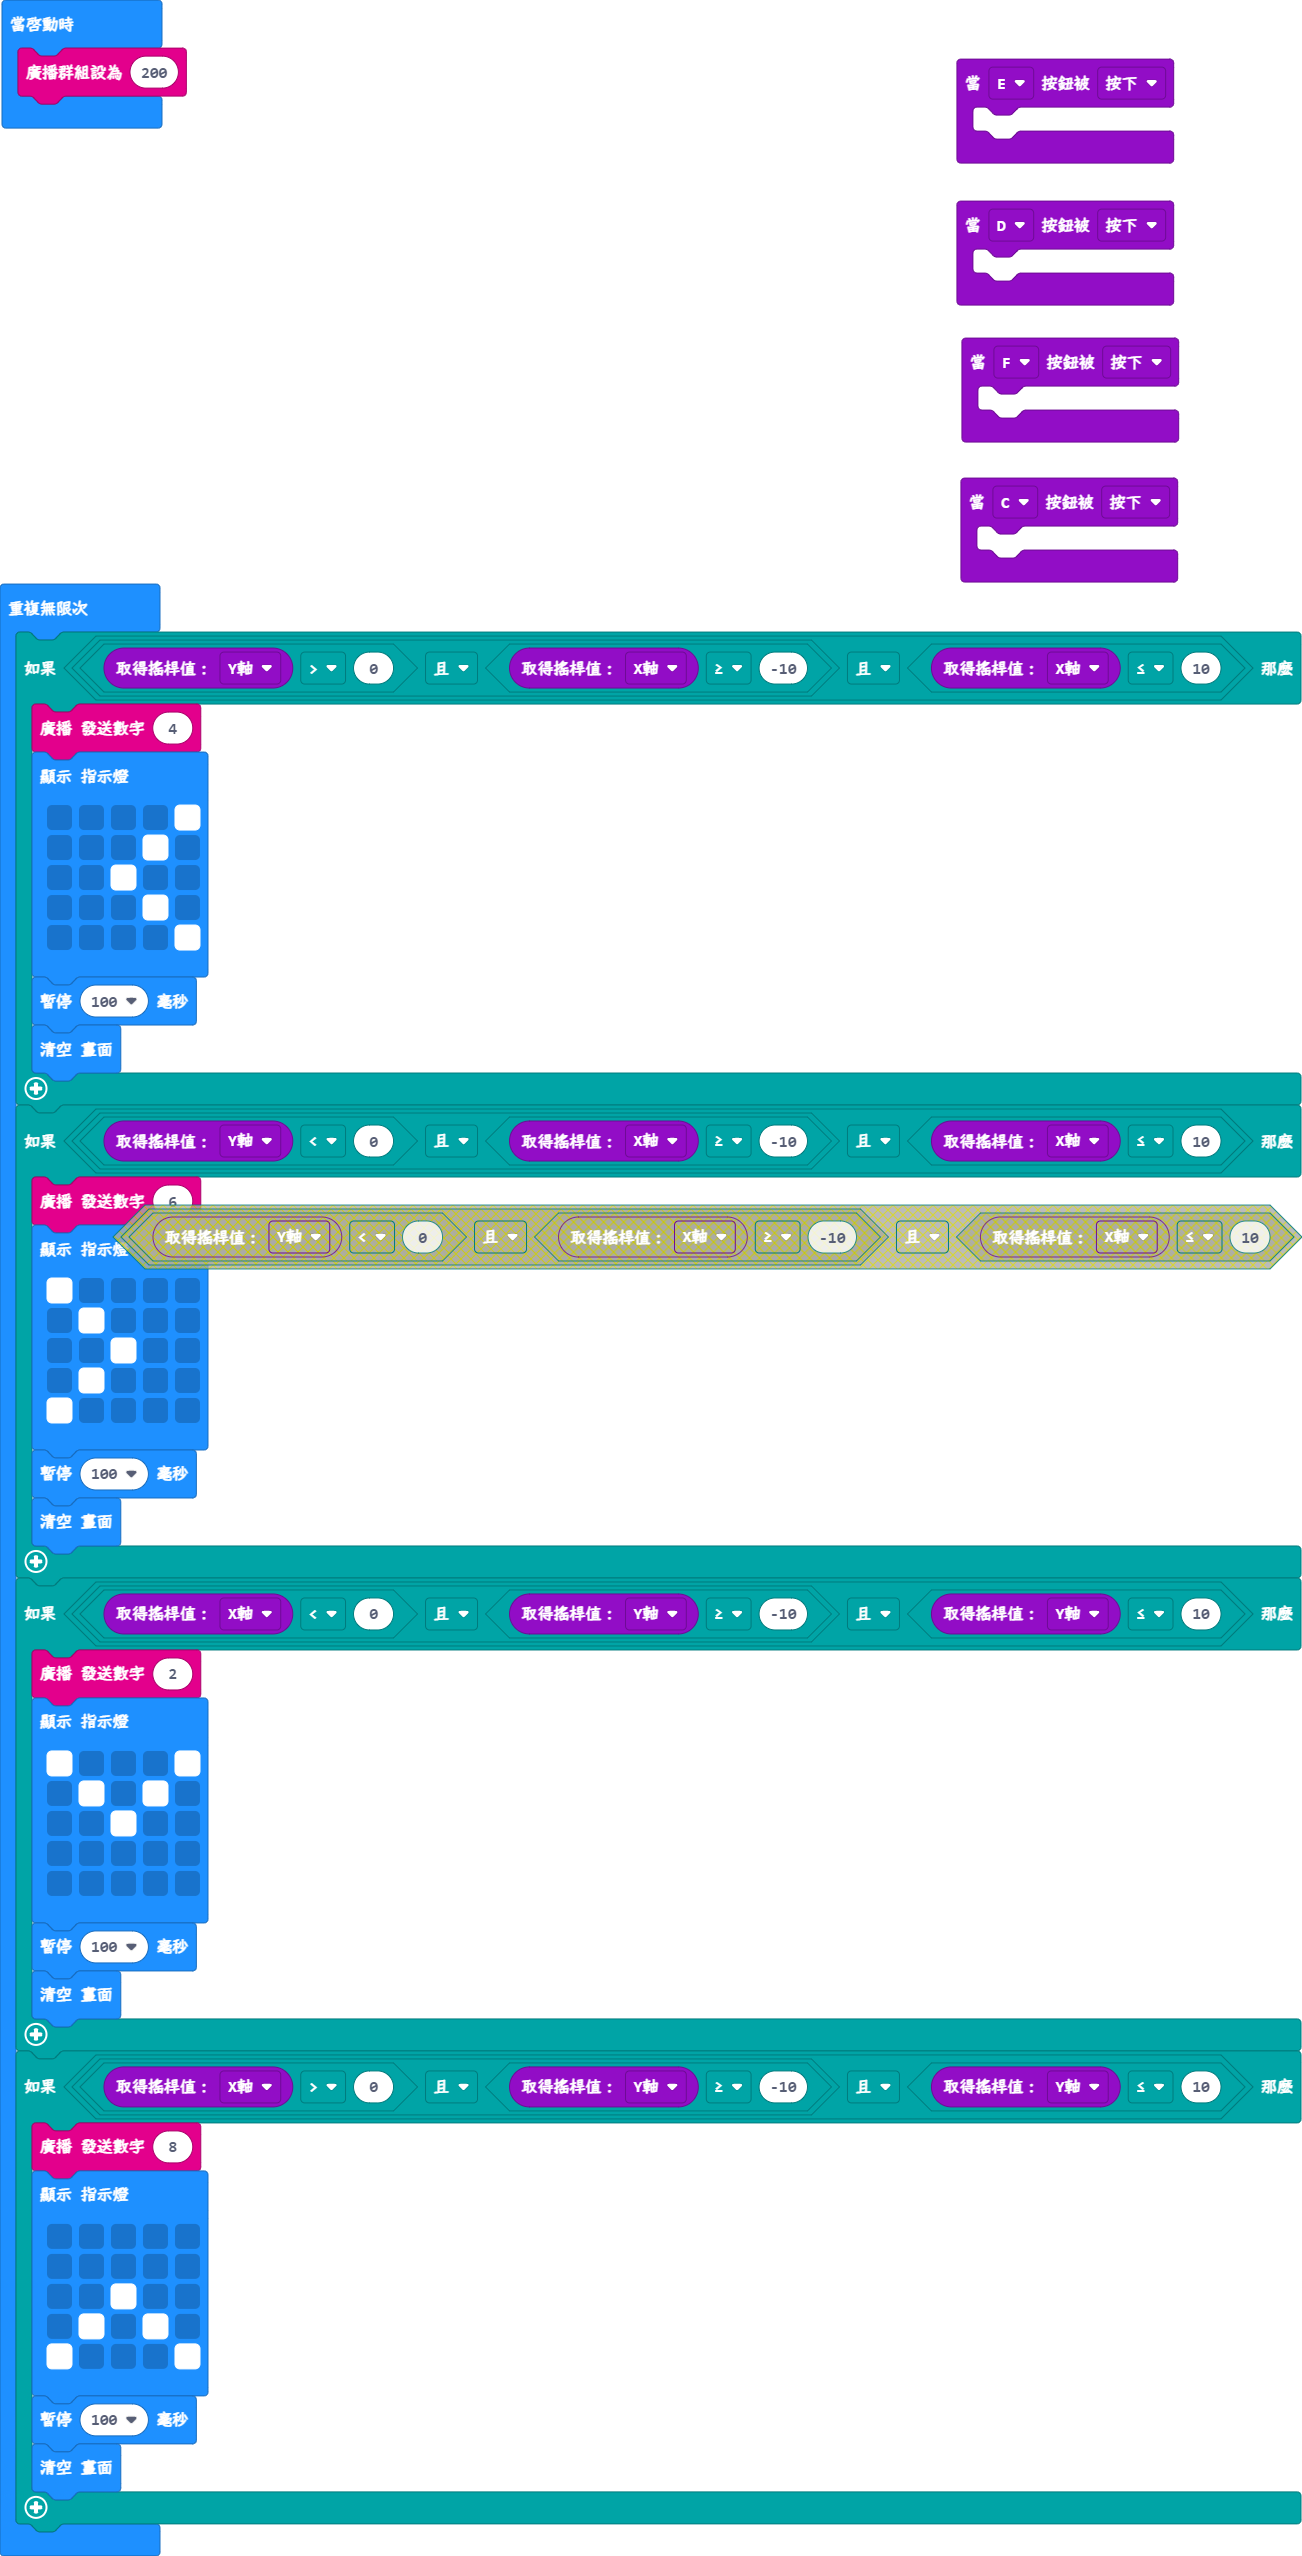
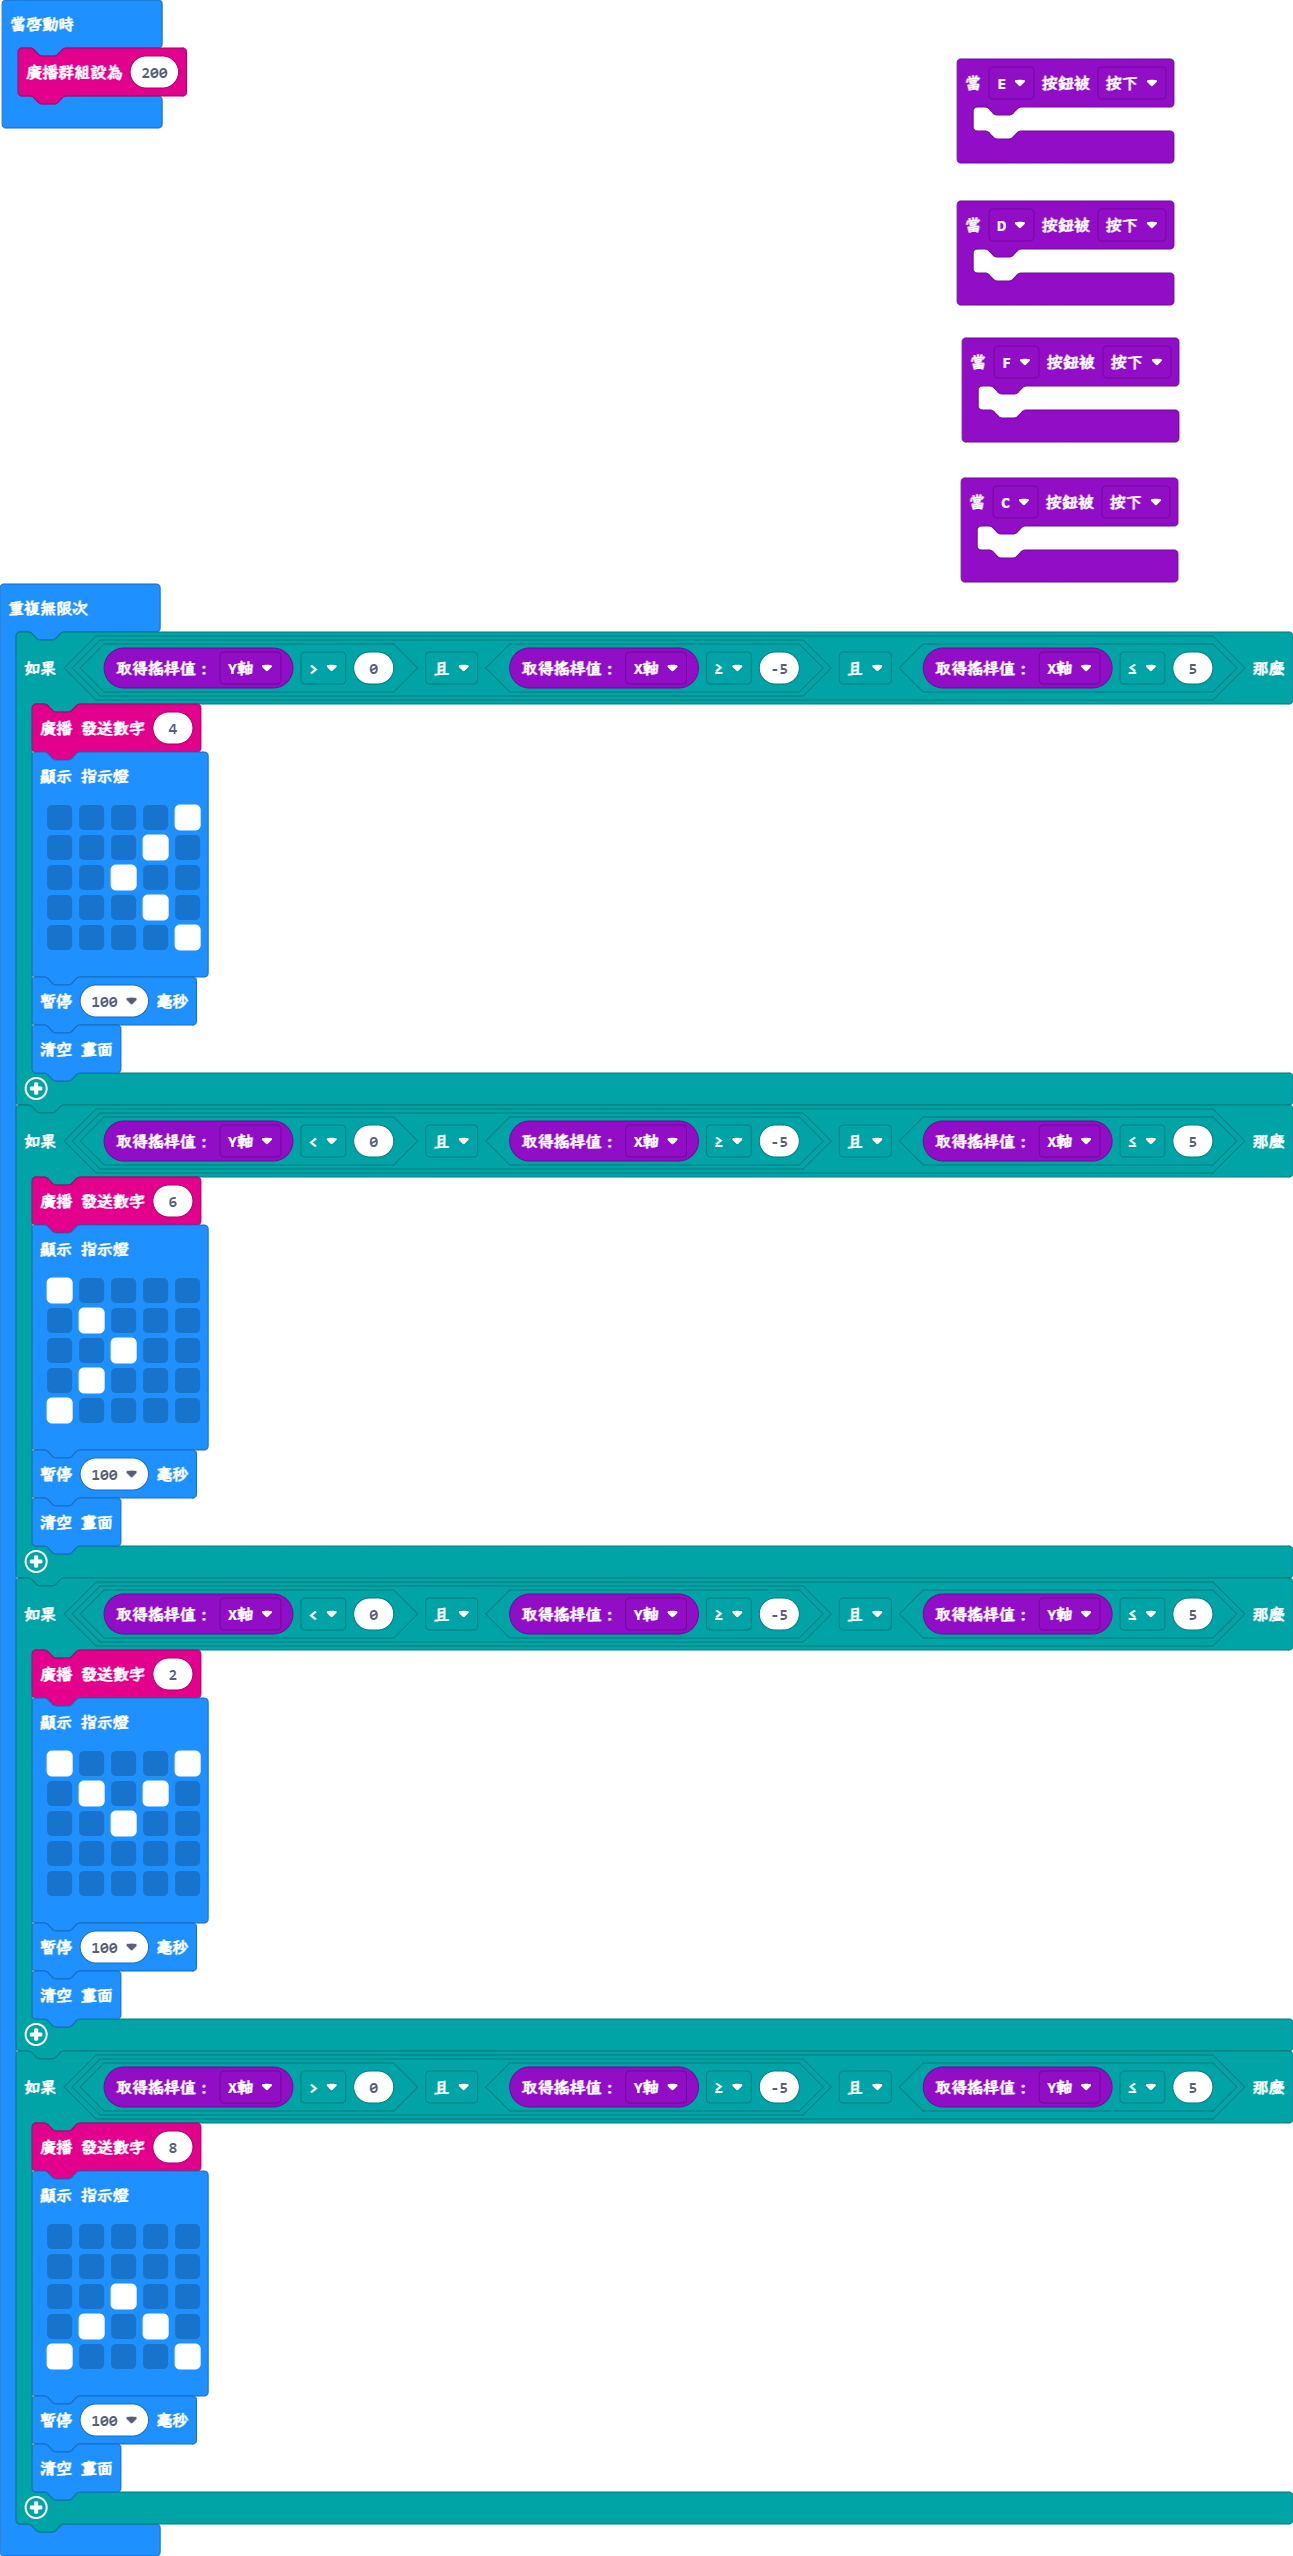
更新 main.blocks, main.ts

diff --git a/main.ts b/main.ts
@@ -12,7 +12,7 @@ KSB045.onBtnChanged(KSB045.btnName.E, KSB045.pushType.down, function () {
 })
 radio.setGroup(200)
 basic.forever(function () {
-    if (KSB045.getJoystickValue(KSB045.valueType.Y) > 0 && KSB045.getJoystickValue(KSB045.valueType.X) >= -10 && KSB045.getJoystickValue(KSB045.valueType.X) <= 10) {
+    if (KSB045.getJoystickValue(KSB045.valueType.Y) > 0 && KSB045.getJoystickValue(KSB045.valueType.X) >= -5 && KSB045.getJoystickValue(KSB045.valueType.X) <= 5) {
         radio.sendNumber(4)
         basic.showLeds(`
             . . . . #
@@ -24,7 +24,7 @@ basic.forever(function () {
         basic.pause(100)
         basic.clearScreen()
     }
-    if (KSB045.getJoystickValue(KSB045.valueType.Y) < 0 && KSB045.getJoystickValue(KSB045.valueType.X) >= -10 && KSB045.getJoystickValue(KSB045.valueType.X) <= 10) {
+    if (KSB045.getJoystickValue(KSB045.valueType.Y) < 0 && KSB045.getJoystickValue(KSB045.valueType.X) >= -5 && KSB045.getJoystickValue(KSB045.valueType.X) <= 5) {
         radio.sendNumber(6)
         basic.showLeds(`
             # . . . .
@@ -36,7 +36,7 @@ basic.forever(function () {
         basic.pause(100)
         basic.clearScreen()
     }
-    if (KSB045.getJoystickValue(KSB045.valueType.X) < 0 && KSB045.getJoystickValue(KSB045.valueType.Y) >= -10 && KSB045.getJoystickValue(KSB045.valueType.Y) <= 10) {
+    if (KSB045.getJoystickValue(KSB045.valueType.X) < 0 && KSB045.getJoystickValue(KSB045.valueType.Y) >= -5 && KSB045.getJoystickValue(KSB045.valueType.Y) <= 5) {
         radio.sendNumber(2)
         basic.showLeds(`
             # . . . #
@@ -48,7 +48,7 @@ basic.forever(function () {
         basic.pause(100)
         basic.clearScreen()
     }
-    if (KSB045.getJoystickValue(KSB045.valueType.X) > 0 && KSB045.getJoystickValue(KSB045.valueType.Y) >= -10 && KSB045.getJoystickValue(KSB045.valueType.Y) <= 10) {
+    if (KSB045.getJoystickValue(KSB045.valueType.X) > 0 && KSB045.getJoystickValue(KSB045.valueType.Y) >= -5 && KSB045.getJoystickValue(KSB045.valueType.Y) <= 5) {
         radio.sendNumber(8)
         basic.showLeds(`
             . . . . .
